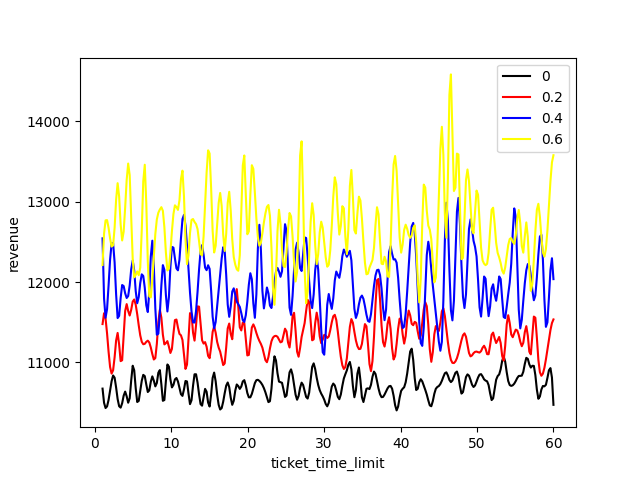
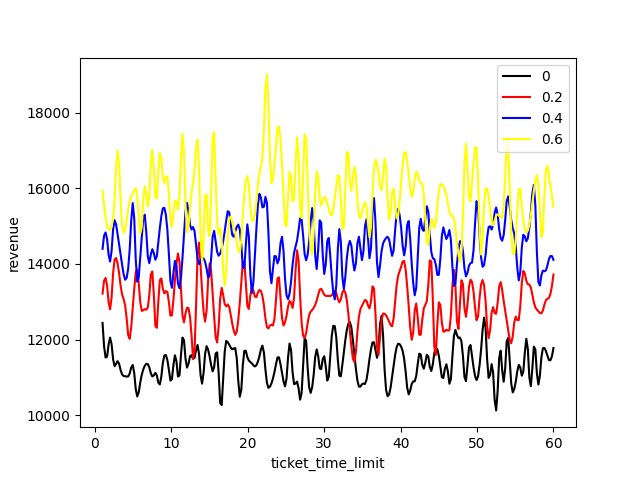
Consider resale rate in revenue evaluation.

diff --git a/flight.py b/flight.py
@@ -12,50 +12,34 @@ class Flight:
         self.num_seats = 100  # TODO: the detailed info of each flight could be loaded from an input file
         self.norm_price = 100
         self.ticket_price = self.norm_price
-        self.total_revenue = 0
-        self.confirm_revenue = 0
-        self.hold_up_revenue = 0
-        self.expected_revenue = 0
         self.log = log
+        
+        self.revenue_confirmed = 0
+        self.revenue_hold_on = 0
     
 
     # Define the revenue management function for each flight
     def revenue_management(self):
         new_price = self.norm_price
-        increase_rate = 1
+        price_increase_rate = 0
+        resale_rate = Param.resale_prob
         while True:
             yield self.env.timeout(Param.freq_set_price)       # the time frequency for updating ticket price
+            if resale_rate > 0.05:
+                resale_rate -= 0.01
             if self.bookings < self.num_seats:
-                # increase the price if fewer seats are available
-                # if self.num_seats - self.bookings <= 20:
-                #     price = self.norm_price * 1.2
-                # elif self.num_seats - self.bookings <= 50:
-                #     price = self.norm_price * 1.1
-                # else:
-                #     price = self.norm_price
-                
-                # increase the price when days going on
+                # increase the price when days are going on
                 if self.env.now % 7 == 0:
-                    increase_rate += 0.02
-                price = self.norm_price * increase_rate  
+                    price_increase_rate += 0.05
+                new_price = self.norm_price * (1 + price_increase_rate)
 
-
-                # calculate the expected revenue for the remaining capacity
-                if self.env.now == 365:
-                    expected_revenue = 0
-                else:
-                    expected_revenue = (self.num_seats - self.bookings) * price
-
-                # if the expected revenue is higher than the current revenue,
-                # update the price and revenue
-                if expected_revenue + self.total_revenue > self.revenue:
-                    # TODO: check this!
-                    self.revenue = expected_revenue + self.total_revenue
-                    new_price = price
+                revenue_expectation = self.revenue_confirmed + self.revenue_hold_on * Param.confirm_prob + self.revenue_hold_on * Param.cancel_prob * resale_rate + self.revenue_hold_on * (1 - Param.confirm_prob - Param.cancel_prob) * (resale_rate - 0.01)
+                if revenue_expectation > self.revenue:
+                    self.revenue = revenue_expectation 
             else:
                 new_price = 0  # no more bookings allowed
-            self.ticket_price = new_price
             # update the ticket price
+            self.ticket_price = new_price
             if self.log == "DEBUG":
                 print(f"Day {self.env.now} {self.id} ticket price: {self.ticket_price:.2f}, "
                     f"remaining {self.num_seats - self.bookings} seats.")
@@ -64,19 +48,19 @@ class Flight:
     def passenger_arrivals(self):
         while True:
             yield self.env.timeout(int(np.random.exponential(scale=Param.pax_inter_time)))
+            booking_price = self.ticket_price
             if self.log == "DEBUG":
                 print(f"Passenger of flight {self.id} arrived at day {self.env.now} ")
             if self.bookings < self.num_seats:
                 self.bookings += 1
-                self.total_revenue += self.ticket_price
+                self.revenue_hold_on += booking_price
                 if self.log == "DEBUG":
                     print(f"Passenger of flight {self.id} "
                         f"arrived at day {self.env.now} "
                         f"purchased a ticket at price {self.ticket_price:.2f}, "
                         f"remaining {self.num_seats - self.bookings} seats.")
                 # Start TTL timing
-                start = self.env.now
-                ttl = self.env.process(self.ticket_time_limit())
+                ttl = self.env.process(self.ticket_time_limit(booking_price))
                 # Allow decision
                 self.env.process(self.decide_booking(ttl))
             else:
@@ -84,12 +68,12 @@ class Flight:
                     print(f"Passenger of flight {self.id} arrived at day {self.env.now} finds no available seats.")
 
     # Handle ttl
-    def ticket_time_limit(self):
+    def ticket_time_limit(self, booking_price):
         try:
             yield self.env.timeout(Param.ticket_time_limit)
             self.bookings -= 1
             # TODO: price may change.
-            self.total_revenue -= self.ticket_price
+            self.revenue_hold_on -= booking_price
             if self.log == "DEBUG":
                 print(f"Passenger of flight {self.id} "
                     f"automatically cancelled at day {self.env.now} "
@@ -99,12 +83,15 @@ class Flight:
             cause = interrupt.cause
             if cause == "cancel":
                 self.bookings -= 1
-                self.total_revenue -= self.ticket_price
-                print(f"Passenger of flight {self.id} "
-                    f"cancelled at day {self.env.now} "
-                    f"return a ticket at price {self.ticket_price:.2f}, "
-                    f"remaining {self.num_seats - self.bookings} seats.")
+                self.revenue_hold_on -= booking_price
+                if self.log == "DEBUG":
+                    print(f"Passenger of flight {self.id} "
+                        f"cancelled at day {self.env.now} "
+                        f"return a ticket at price {self.ticket_price:.2f}, "
+                        f"remaining {self.num_seats - self.bookings} seats.")
             elif cause == "confirm":
+                self.revenue_hold_on -= booking_price
+                self.revenue_confirmed += booking_price
                 if self.log == "DEBUG":
                     print(f"Passenger of flight {self.id} "
                         f"confirmed at day {self.env.now} ")

diff --git a/plot.py b/plot.py
@@ -8,9 +8,11 @@ class AirlineRmPlotting:
     def plot_ttl_revenue(routes):
         confirm_prob_range = [0, 0.2, 0.4, 0.6]
         confirm_prob_color = ["black", "red", "blue", "yellow"]
+        # Simulate with different confirm prob
         for index in range(len(confirm_prob_color)):
             Param.confirm_prob = confirm_prob_range[index]
             revenues = list()
+            # Simulate with different ttl
             for i in np.arange(1, 60.5, 0.5):
                 Param.ticket_time_limit = i
                 simulation = Sim(routes, "INFO")
@@ -18,9 +20,9 @@ class AirlineRmPlotting:
                 revenue = 0
                 for f in simulation.flights.values():
                     revenue += f.revenue
-                    revenues.append(revenue)
-            
-            spl = make_interp_spline(np.arange(1, 60.5, 0.5), revenues, k=3)
+                revenues.append(revenue)
+            # Make the curve more smooth
+            spl = make_interp_spline(np.arange(1, 60.5, 0.5), revenues, k=2)
             x_smooth = np.linspace(1, 60, 300)
             y_smooth = spl(x_smooth)
             

diff --git a/simulator.py b/simulator.py
@@ -22,7 +22,7 @@ class AirlineRmSimulation:
         for origin, destination in self.routes:
             flight = self.flights[(origin, destination)]
             print(f"From {origin} to {destination}:")
-            print(f"Total revenue: ${flight.total_revenue:.2f}")
+            print(f"Total revenue: ${flight.revenue_confirmed:.2f}")
             print(f"Total seats sold: {flight.bookings}")
             print()
 

diff --git a/parameters.py b/parameters.py
@@ -1,9 +1,11 @@
 class Parameter:
     num_days = 365  # Number of days to simulate
     pax_inter_time = 1
-    decision_inter_time = 0.1
+    decision_inter_time = 0.25
     freq_set_price = 0.5
     ticket_time_limit = 7
 
     confirm_prob = 0.5
-    cancel_prob = 0.3
+    cancel_prob = 0.3    
+
+    resale_prob = 0.9
